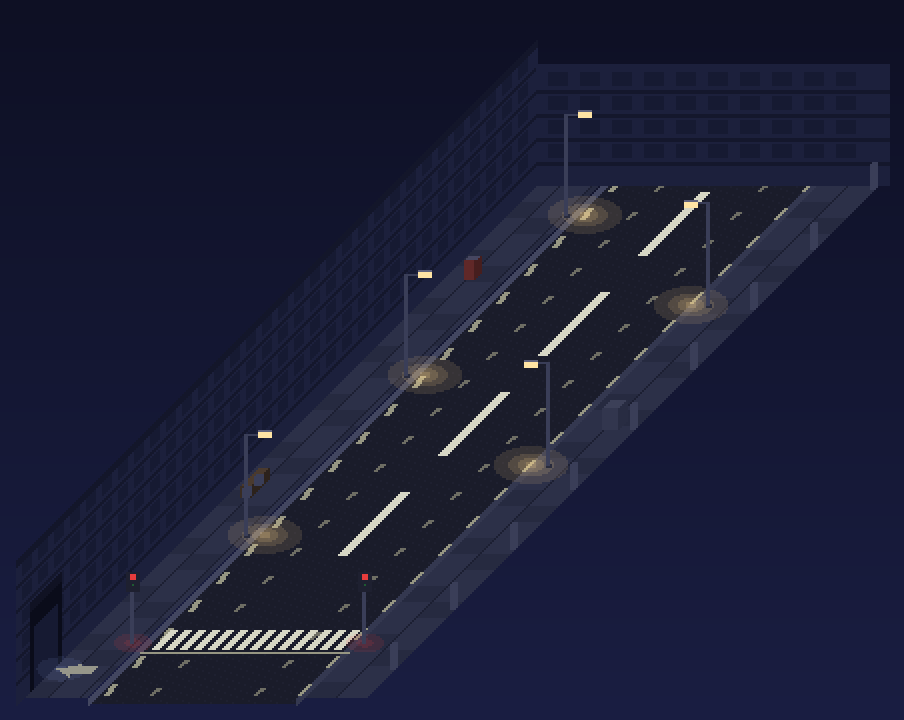
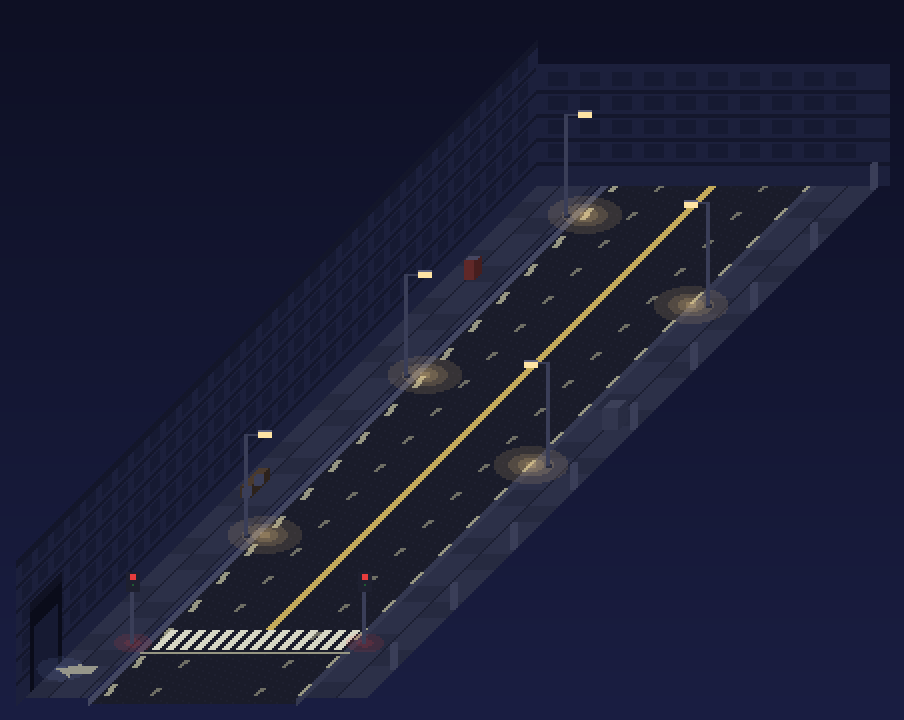
City 3D street: replace large road markings with thin center line
Claude-Session: https://claude.ai/code/session_01FPZSaKiVNU2zED737yZX4w

diff --git a/tools/render_city3d.py b/tools/render_city3d.py
@@ -131,9 +131,7 @@ def street():
     s.floor(paving, x0=0, x1=LS, z=3); s.floor(paving, x0=RS, x1=W, z=3); s.floor(asphalt, x0=LS, x1=RS)
     s.poly([(LS, 0, 0), (LS, 0, 3), (LS, D, 3), (LS, D, 0)], CURBF); s.poly([(RS, 0, 0), (RS, 0, 3), (RS, D, 3), (RS, D, 0)], CURBR)
     # 도로 표시: 얇고 길고 간격이 넓은 네 개(맨 위 하나만 비스듬히)
-    for i, d in enumerate((150, 250, 350, 450)):
-        ln, sk = 62, 0
-        s.poly([(86 + sk, d, 0), (90 + sk, d, 0), (90, d + ln, 0), (86, d + ln, 0)], PAINT)
+    for x in (87, 89): s.poly([(x, 76, 0), (x + 1, 76, 0), (x + 1, D, 0), (x, D, 0)], (196, 170, 90))   # 얇은 이중 중앙선(횡단보도 뒤부터 끝까지)
     for k in range(10, D, 28):                                                # 차로 점선(가장자리 선, 얇게)
         for x in (LS + 3, RS - 4): s.poly([(x, k, 0), (x + 1.5, k, 0), (x + 1.5, k + 9, 0), (x, k + 9, 0)], (150, 150, 130))
         for x in (62, 114): s.poly([(x, k, 0), (x + 1.5, k, 0), (x + 1.5, k + 7, 0), (x, k + 7, 0)], (110, 110, 100))
